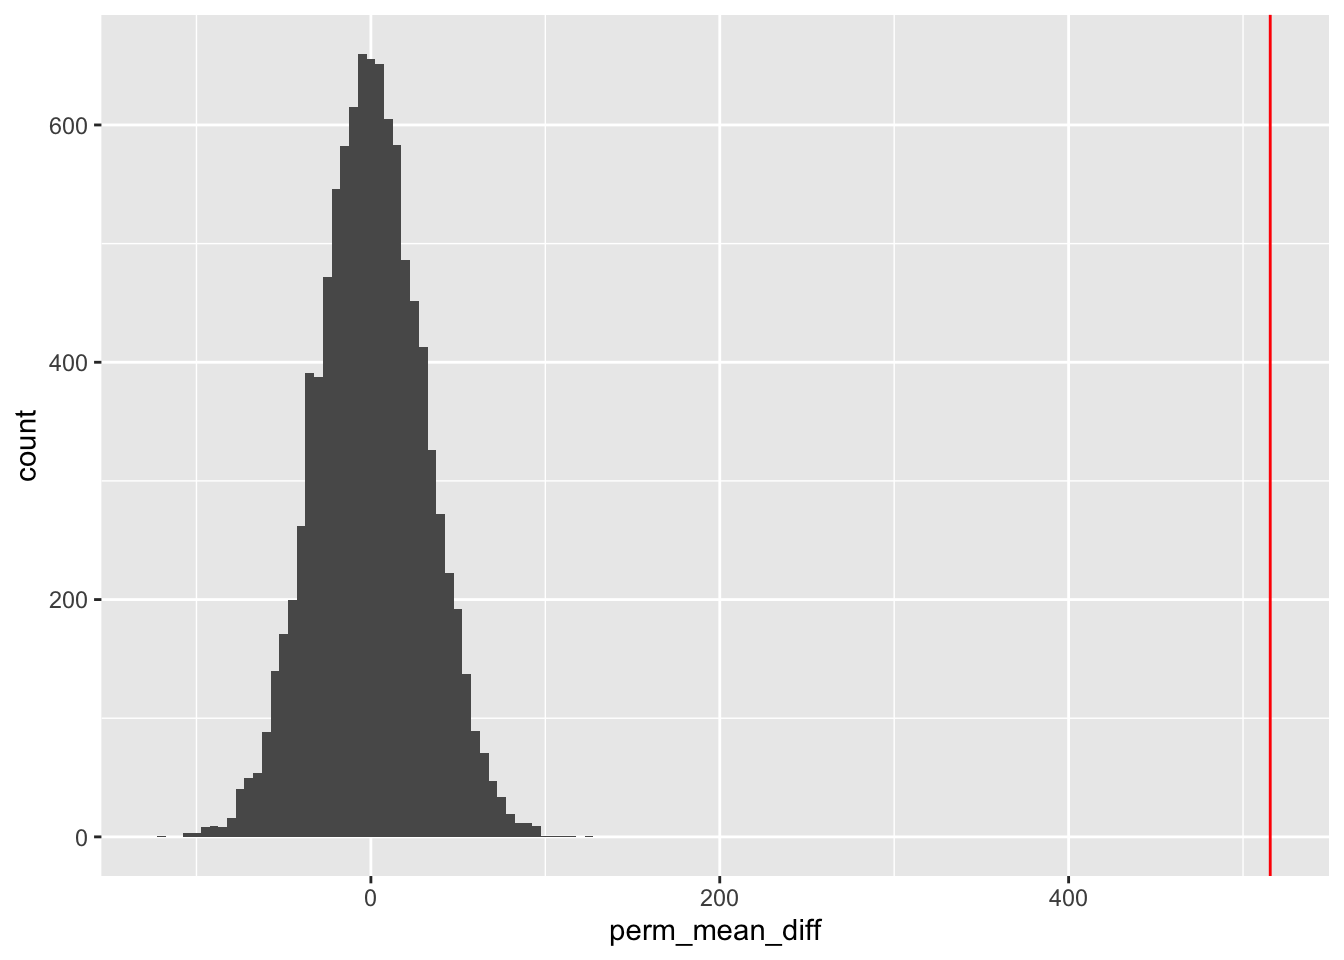
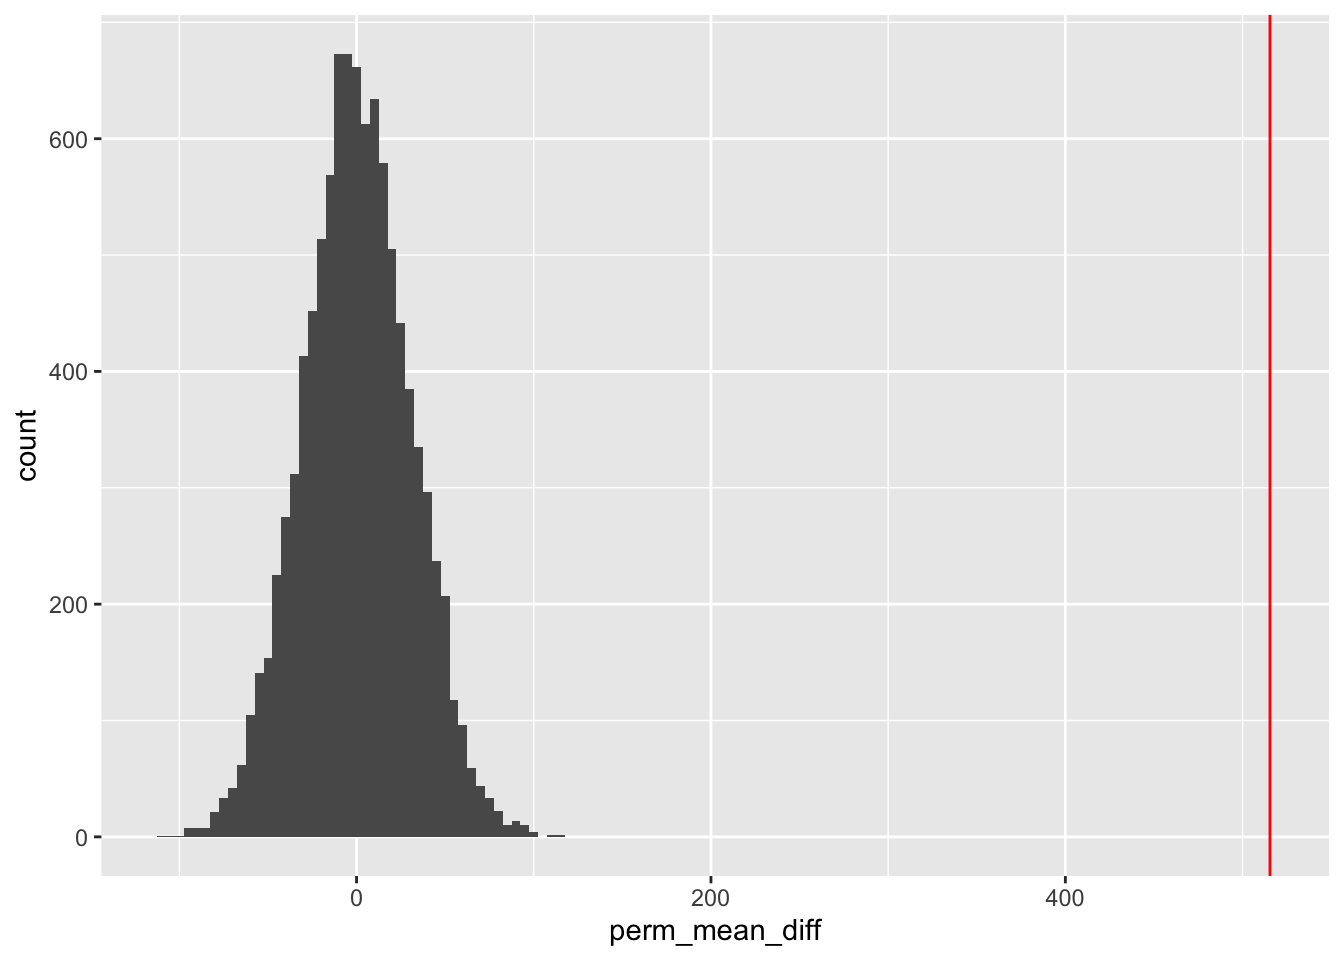
please work

diff --git a/docs/permutation.html b/docs/permutation.html
@@ -238,35 +238,37 @@ j) fractal dimension ("coastline approximation" - 1)</code></pre>
 <div class="cell">
 <div class="code-copy-outer-scaffold"><div class="sourceCode cell-code" id="cb2"><pre class="sourceCode r code-with-copy"><code class="sourceCode r"><span id="cb2-1"><a href="#cb2-1" aria-hidden="true" tabindex="-1"></a><span class="fu">library</span>(tidyverse)</span>
 <span id="cb2-2"><a href="#cb2-2" aria-hidden="true" tabindex="-1"></a><span class="fu">library</span>(readr)</span>
-<span id="cb2-3"><a href="#cb2-3" aria-hidden="true" tabindex="-1"></a>tumor_data <span class="ot">&lt;-</span> <span class="fu">read_csv</span>(<span class="st">"wdbc.data"</span>, <span class="at">col_names =</span> <span class="cn">FALSE</span>)</span>
+<span id="cb2-3"><a href="#cb2-3" aria-hidden="true" tabindex="-1"></a><span class="fu">library</span>(here)</span>
 <span id="cb2-4"><a href="#cb2-4" aria-hidden="true" tabindex="-1"></a></span>
-<span id="cb2-5"><a href="#cb2-5" aria-hidden="true" tabindex="-1"></a><span class="fu">colnames</span>(tumor_data) <span class="ot">&lt;-</span> <span class="fu">c</span>(</span>
-<span id="cb2-6"><a href="#cb2-6" aria-hidden="true" tabindex="-1"></a>  <span class="st">"id"</span>, <span class="st">"diagnosis"</span>,</span>
-<span id="cb2-7"><a href="#cb2-7" aria-hidden="true" tabindex="-1"></a>  <span class="st">"radius_mean"</span>, <span class="st">"texture_mean"</span>, <span class="st">"perimeter_mean"</span>, <span class="st">"area_mean"</span>, <span class="st">"smoothness_mean"</span>,</span>
-<span id="cb2-8"><a href="#cb2-8" aria-hidden="true" tabindex="-1"></a>  <span class="st">"compactness_mean"</span>, <span class="st">"concavity_mean"</span>, <span class="st">"concave_points_mean"</span>, <span class="st">"symmetry_mean"</span>, <span class="st">"fractal_dimension_mean"</span>,</span>
-<span id="cb2-9"><a href="#cb2-9" aria-hidden="true" tabindex="-1"></a>  </span>
-<span id="cb2-10"><a href="#cb2-10" aria-hidden="true" tabindex="-1"></a>  <span class="st">"radius_se"</span>, <span class="st">"texture_se"</span>, <span class="st">"perimeter_se"</span>, <span class="st">"area_se"</span>, <span class="st">"smoothness_se"</span>,</span>
-<span id="cb2-11"><a href="#cb2-11" aria-hidden="true" tabindex="-1"></a>  <span class="st">"compactness_se"</span>, <span class="st">"concavity_se"</span>, <span class="st">"concave_points_se"</span>, <span class="st">"symmetry_se"</span>, <span class="st">"fractal_dimension_se"</span>,</span>
-<span id="cb2-12"><a href="#cb2-12" aria-hidden="true" tabindex="-1"></a>  </span>
-<span id="cb2-13"><a href="#cb2-13" aria-hidden="true" tabindex="-1"></a>  <span class="st">"radius_worst"</span>, <span class="st">"texture_worst"</span>, <span class="st">"perimeter_worst"</span>, <span class="st">"area_worst"</span>, <span class="st">"smoothness_worst"</span>,</span>
-<span id="cb2-14"><a href="#cb2-14" aria-hidden="true" tabindex="-1"></a>  <span class="st">"compactness_worst"</span>, <span class="st">"concavity_worst"</span>, <span class="st">"concave_points_worst"</span>, <span class="st">"symmetry_worst"</span>, <span class="st">"fractal_dimension_worst"</span>)</span>
-<span id="cb2-15"><a href="#cb2-15" aria-hidden="true" tabindex="-1"></a></span>
-<span id="cb2-16"><a href="#cb2-16" aria-hidden="true" tabindex="-1"></a>tumor_data</span></code></pre></div><button title="Copy to Clipboard" class="code-copy-button"><i class="bi"></i></button></div>
+<span id="cb2-5"><a href="#cb2-5" aria-hidden="true" tabindex="-1"></a>tumor_data <span class="ot">&lt;-</span> <span class="fu">read_csv</span>(<span class="fu">here</span>(<span class="st">"data"</span>, <span class="st">"wdbc.data"</span>))</span>
+<span id="cb2-6"><a href="#cb2-6" aria-hidden="true" tabindex="-1"></a></span>
+<span id="cb2-7"><a href="#cb2-7" aria-hidden="true" tabindex="-1"></a><span class="fu">colnames</span>(tumor_data) <span class="ot">&lt;-</span> <span class="fu">c</span>(</span>
+<span id="cb2-8"><a href="#cb2-8" aria-hidden="true" tabindex="-1"></a>  <span class="st">"id"</span>, <span class="st">"diagnosis"</span>,</span>
+<span id="cb2-9"><a href="#cb2-9" aria-hidden="true" tabindex="-1"></a>  <span class="st">"radius_mean"</span>, <span class="st">"texture_mean"</span>, <span class="st">"perimeter_mean"</span>, <span class="st">"area_mean"</span>, <span class="st">"smoothness_mean"</span>,</span>
+<span id="cb2-10"><a href="#cb2-10" aria-hidden="true" tabindex="-1"></a>  <span class="st">"compactness_mean"</span>, <span class="st">"concavity_mean"</span>, <span class="st">"concave_points_mean"</span>, <span class="st">"symmetry_mean"</span>, <span class="st">"fractal_dimension_mean"</span>,</span>
+<span id="cb2-11"><a href="#cb2-11" aria-hidden="true" tabindex="-1"></a>  </span>
+<span id="cb2-12"><a href="#cb2-12" aria-hidden="true" tabindex="-1"></a>  <span class="st">"radius_se"</span>, <span class="st">"texture_se"</span>, <span class="st">"perimeter_se"</span>, <span class="st">"area_se"</span>, <span class="st">"smoothness_se"</span>,</span>
+<span id="cb2-13"><a href="#cb2-13" aria-hidden="true" tabindex="-1"></a>  <span class="st">"compactness_se"</span>, <span class="st">"concavity_se"</span>, <span class="st">"concave_points_se"</span>, <span class="st">"symmetry_se"</span>, <span class="st">"fractal_dimension_se"</span>,</span>
+<span id="cb2-14"><a href="#cb2-14" aria-hidden="true" tabindex="-1"></a>  </span>
+<span id="cb2-15"><a href="#cb2-15" aria-hidden="true" tabindex="-1"></a>  <span class="st">"radius_worst"</span>, <span class="st">"texture_worst"</span>, <span class="st">"perimeter_worst"</span>, <span class="st">"area_worst"</span>, <span class="st">"smoothness_worst"</span>,</span>
+<span id="cb2-16"><a href="#cb2-16" aria-hidden="true" tabindex="-1"></a>  <span class="st">"compactness_worst"</span>, <span class="st">"concavity_worst"</span>, <span class="st">"concave_points_worst"</span>, <span class="st">"symmetry_worst"</span>, <span class="st">"fractal_dimension_worst"</span>)</span>
+<span id="cb2-17"><a href="#cb2-17" aria-hidden="true" tabindex="-1"></a></span>
+<span id="cb2-18"><a href="#cb2-18" aria-hidden="true" tabindex="-1"></a>tumor_data</span></code></pre></div><button title="Copy to Clipboard" class="code-copy-button"><i class="bi"></i></button></div>
 <div class="cell-output cell-output-stdout">
-<pre><code># A tibble: 569 × 32
+<pre><code># A tibble: 568 × 32
          id diagnosis radius_mean texture_mean perimeter_mean area_mean
       &lt;dbl&gt; &lt;chr&gt;           &lt;dbl&gt;        &lt;dbl&gt;          &lt;dbl&gt;     &lt;dbl&gt;
- 1   842302 M                18.0         10.4          123.      1001 
- 2   842517 M                20.6         17.8          133.      1326 
- 3 84300903 M                19.7         21.2          130       1203 
- 4 84348301 M                11.4         20.4           77.6      386.
- 5 84358402 M                20.3         14.3          135.      1297 
- 6   843786 M                12.4         15.7           82.6      477.
- 7   844359 M                18.2         20.0          120.      1040 
- 8 84458202 M                13.7         20.8           90.2      578.
- 9   844981 M                13           21.8           87.5      520.
-10 84501001 M                12.5         24.0           84.0      476.
-# ℹ 559 more rows
+ 1   842517 M                20.6         17.8          133.      1326 
+ 2 84300903 M                19.7         21.2          130       1203 
+ 3 84348301 M                11.4         20.4           77.6      386.
+ 4 84358402 M                20.3         14.3          135.      1297 
+ 5   843786 M                12.4         15.7           82.6      477.
+ 6   844359 M                18.2         20.0          120.      1040 
+ 7 84458202 M                13.7         20.8           90.2      578.
+ 8   844981 M                13           21.8           87.5      520.
+ 9 84501001 M                12.5         24.0           84.0      476.
+10   845636 M                16.0         23.2          103.       798.
+# ℹ 558 more rows
 # ℹ 26 more variables: smoothness_mean &lt;dbl&gt;, compactness_mean &lt;dbl&gt;,
 #   concavity_mean &lt;dbl&gt;, concave_points_mean &lt;dbl&gt;, symmetry_mean &lt;dbl&gt;,
 #   fractal_dimension_mean &lt;dbl&gt;, radius_se &lt;dbl&gt;, texture_se &lt;dbl&gt;,
@@ -334,16 +336,16 @@ j) fractal dimension ("coastline approximation" - 1)</code></pre>
 <pre><code># A tibble: 10,000 × 3
    obs_mean_diff perm_mean_diff   rep
            &lt;dbl&gt;          &lt;dbl&gt; &lt;int&gt;
- 1          516.           6.31     1
- 2          516.         -12.9      2
- 3          516.          48.4      3
- 4          516.          57.2      4
- 5          516.          13.7      5
- 6          516.           9.75     6
- 7          516.          18.0      7
- 8          516.         -16.4      8
- 9          516.          30.4      9
-10          516.         -18.9     10
+ 1          515.          30.5      1
+ 2          515.         -12.6      2
+ 3          515.         -58.4      3
+ 4          515.          15.2      4
+ 5          515.         -34.7      5
+ 6          515.         -40.1      6
+ 7          515.           5.15     7
+ 8          515.         -46.0      8
+ 9          515.          27.5      9
+10          515.         -31.0     10
 # ℹ 9,990 more rows</code></pre>
 </div>
 </div>
